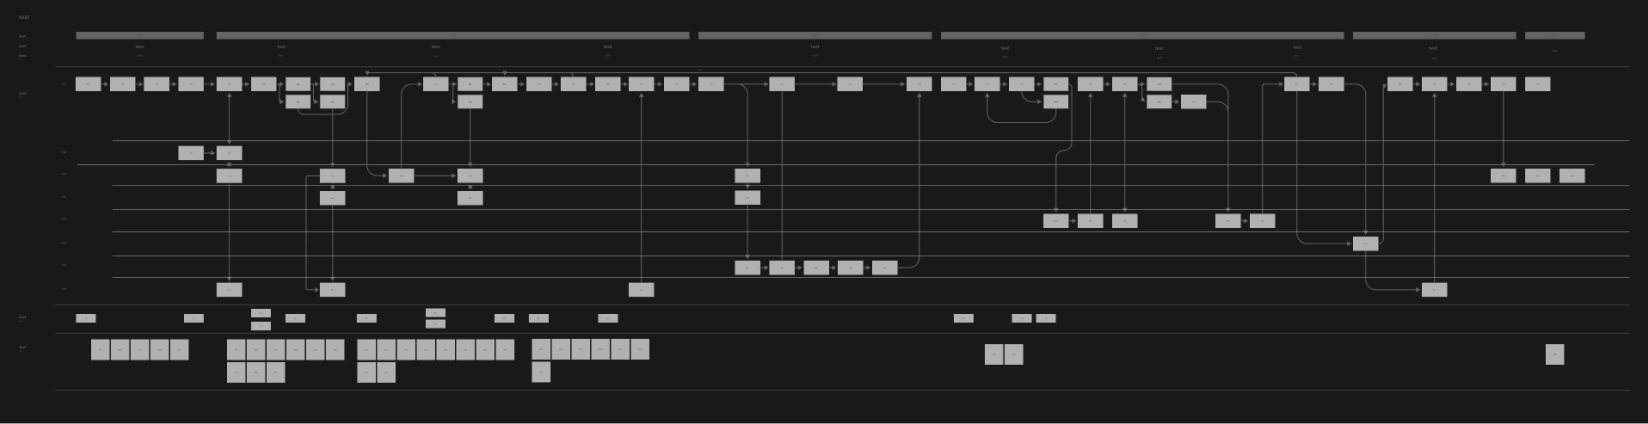
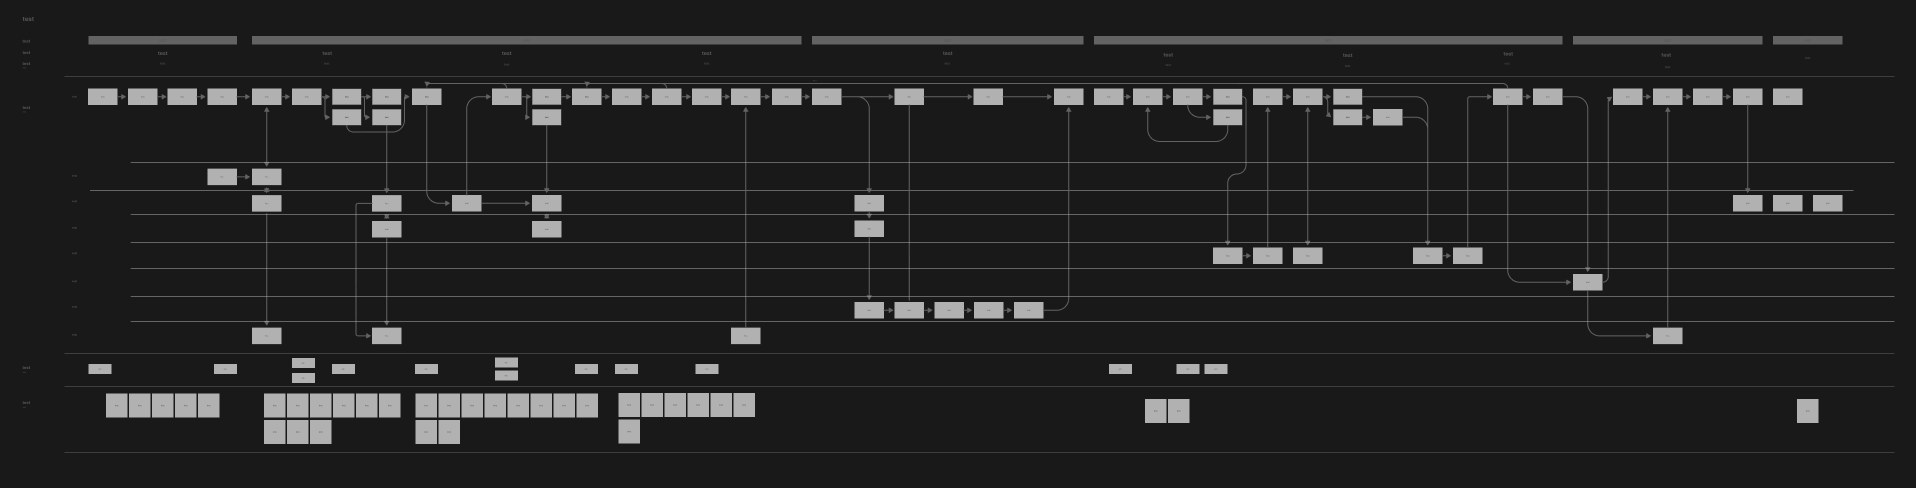
Gov portal case study: updated original-flow diagram from Figma (240:653), full resolution

diff --git a/projects/government-approval-portal/index.html b/projects/government-approval-portal/index.html
@@ -229,7 +229,7 @@
           <figcaption class="caption">Original application form (Phase 1 of 4, 56 pages).</figcaption>
         </figure>
         <figure class="shot">
-          <img src="assets/original-flow.jpg" width="1648" height="424" alt="The original approval flow across eight levels of support">
+          <img src="assets/original-flow.jpg" width="1916" height="488" alt="The original approval flow across eight levels of support">
           <figcaption class="caption">Original approval flow with 8 levels of support for different departments and third-parties handling parts of the approval process. The whole process took 12 months.</figcaption>
         </figure>
       </div>
